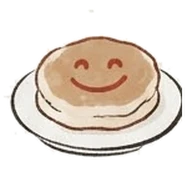
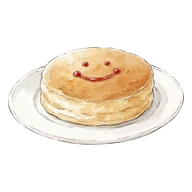
Fix 6 dish pictures that were cut off at the edge (#25)
* Fix audit bugs: cook mode layout, tool inputs, Cyrillic search, certificate, back scroll, order warnings

- Cook mode on wide screens pushed the recipe below the sidebar
- Kitchen tools: typing decimals or moving between fields corrupted values
- Search in Cyrillic returned every recipe instead of matches
- Certificate said BATCHBOOK; name field missing after reload; Cyrillic names lost in file name
- Back from a recipe now returns to the same place in the list
- Order: dishes without product data are flagged instead of silently ignored
- Missing 'cookie' icon (Bonbons & Confectionery), duplicate A-Z sort option
- Quiz answer order shuffled; empty recipe cards show a notice
- sw.js cache bb-v23

Claude-Session: https://claude.ai/code/session_01U632z8SerL2zer6jpJSKZU

* Order data for all recipes, two missing recipe cards, background timers

- tools/build_order_lines.py fills product lines for the 1,341 recipes that had none
  (13,594 ingredient lines matched to existing products, 351 new products)
- Burger Patty (Chuck Roll Black Angus) and Beef Lasagne cards from the Drive TTKs
- 13 wrong diet tags fixed (meat dishes marked vegan or vegetarian)
- Android 2.1 (versionCode 3): timers ring with a notification when the app is in the
  background or the screen is off (AlarmManager + TimerReceiver, bridge setTimer/cancelTimer)
- sw.js cache bb-v24

Claude-Session: https://claude.ai/code/session_01U632z8SerL2zer6jpJSKZU

* Ignore Python cache
[…]

diff --git a/sw.js b/sw.js
@@ -1,5 +1,5 @@
 /* Chefsheet offline cache. Used by the standalone (Google Play) version only. */
-const V="bb-v43";
+const V="bb-v44";
 const SHELL=["./","index.html","index.json","learn.json","manifest.json","icon-192.png","icon-512.png","icon-maskable-512.png","img/dish/soup.webp","img/dish/leaf.webp","img/dish/pasta.webp","img/dish/meat.webp","img/dish/fish.webp","img/dish/cake.webp","img/dish/ice.webp","img/dish/bread.webp","img/dish/glass.webp","img/dish/coffee.webp","img/dish/egg.webp","img/dish/burger.webp","img/dish/noodle.webp","img/dish/pizza.webp","img/dish/rice.webp","img/dish/pot.webp","img/dish/tapas.webp","img/dish/skewer.webp","img/dish/taco.webp","img/dish/cheese.webp","img/dish/grill.webp","img/dish/chef.webp","img/dish/wine.webp","img/dish/beer.webp","img/dish/toast.webp","img/dish/bento.webp","img/dish/sauce.webp","img/dish/jar.webp","img/dish/pickle.webp","img/dish/chili.webp","img/dish/candy.webp","img/dish/celebrate.webp","img/dish/flatware.webp","img/dish/fondue.webp","img/dish/sun.webp","img/dish/spa.webp","img/dish/kids.webp","img/dish/room.webp","img/dish/fridge.webp","img/dish/semi.webp","img/empty/orders.webp","img/empty/menu.webp","img/empty/book.webp","img/empty/search.webp","img/empty/fav.webp","img/ui/tab-recipes.png","img/ui/tab-learn.png","img/ui/tab-fav.png","img/ui/tab-order.png","img/ui/tab-orders.png","img/ui/tool-salt.png","img/ui/tool-yield.png","img/ui/tool-sousvide.png","img/ui/tool-price.png","img/ui/tool-timer.png","img/ui/tool-label.png","img/ui/tool-prep.png","img/ui/learn-quiz.png","img/ui/learn-cert.png","img/ui/learn-glossary.png"];
 self.addEventListener("install",e=>{e.waitUntil(caches.open(V).then(c=>c.addAll(SHELL)).then(()=>self.skipWaiting()))});
 self.addEventListener("activate",e=>{e.waitUntil(caches.keys().then(ks=>Promise.all(ks.filter(k=>k!==V).map(k=>caches.delete(k)))).then(()=>self.clients.claim()))});
